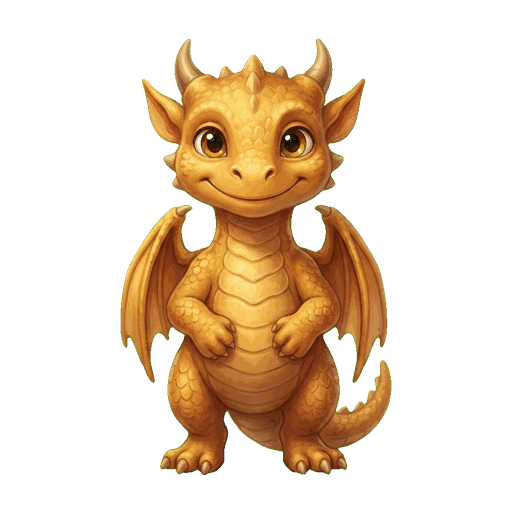
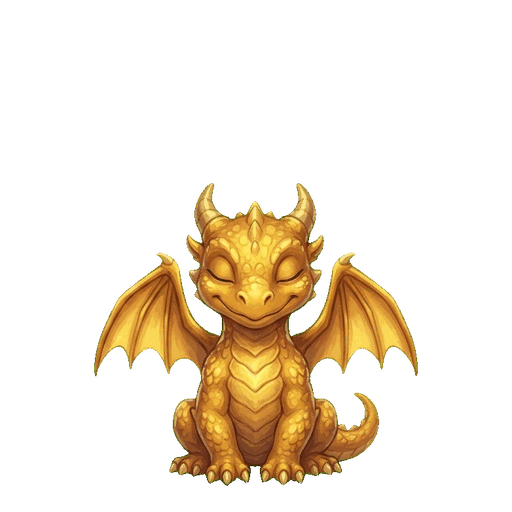
Add files via upload

diff --git a/island-overworld.html b/island-overworld.html
@@ -34,7 +34,7 @@
 <body>
 <div id="game"></div>
 <div class="hud" id="hud">Hearth Island</div>
-<div style="position:fixed;top:max(12px,env(safe-area-inset-top));right:max(12px,env(safe-area-inset-right));z-index:20;background:#e8853d;color:#1a1410;font-weight:800;font-size:13px;padding:4px 10px;border-radius:8px;box-shadow:0 2px 6px rgba(0,0,0,0.5);">BUILD v6 ✓</div>
+<div style="position:fixed;top:max(12px,env(safe-area-inset-top));right:max(12px,env(safe-area-inset-right));z-index:20;background:#e8853d;color:#1a1410;font-weight:800;font-size:13px;padding:4px 10px;border-radius:8px;box-shadow:0 2px 6px rgba(0,0,0,0.5);">v8 🐉</div>
 <div class="pad">
   <button class="up" data-dir="up" aria-label="Up">▲</button>
   <button class="down" data-dir="down" aria-label="Down">▼</button>
@@ -65,9 +65,11 @@ const CONFIG = {
   GUARDIAN_MOVE_MS: 220,
   FOLLOW_LERP: 0.12,   // camera smoothing
   COLORS: {
-    grassA: 0x3f7d4a, grassB: 0x478a52, path: 0xb79a6a, pathEdge: 0x9c7f54,
-    water: 0x3a6ea5, building: 0x6b4a2e, buildingRoof: 0x8a3b2e, buildingDoor: 0x2a1c12,
-    shrine: 0xe8853d,
+    grassA: 0x4a8c52, grassB: 0x428049, grassC: 0x55995d, grassDark: 0x3a7044,
+    path: 0xc2a86e, pathB: 0xb79a60, pathEdge: 0x9c7f54, pathSpeck: 0xa88f5a,
+    water: 0x3a6ea5, waterB: 0x4279b0, waterHi: 0x5b97cf,
+    building: 0x6b4a2e, buildingRoof: 0x8a3b2e, buildingDoor: 0x2a1c12,
+    shrine: 0xe8853d, shadow: 0x000000,
   },
 };
 
@@ -111,70 +113,169 @@ function isWalkable(c, r) {
 class IslandScene extends Phaser.Scene {
   constructor() { super('island'); }
 
+  preload() {
+    // load the real dragon sprite; if it 404s we fall back to the emoji token (world never breaks)
+    this.dragonLoaded = false;
+    this.load.image('dragon', './guardian-dragon-cheer2.png');
+    this.load.on('filecomplete-image-dragon', function () { this.dragonLoaded = true; }, this);
+    this.load.on('loaderror', function () { this.dragonLoaded = false; }, this);
+  }
+
   create() {
     const T = CONFIG.TILE;
     this.cameras.main.setBackgroundColor('#1a1410');
     this.cameras.main.setBounds(0, 0, CONFIG.COLS * T, CONFIG.ROWS * T);
 
-    // --- draw the tile map (grass + a cross path) ---
+    // --- draw the tile map: layered grass + dirt path (VISUAL ONLY, grid unchanged) ---
+    const C = CONFIG.COLORS;
     const g = this.add.graphics();
+    // deterministic per-tile noise so it never flickers between frames
+    function tileRand(c, r) { let n = (c * 73856093) ^ (r * 19349663); n = (n << 13) ^ n; return ((n * (n * n * 15731 + 789221) + 1376312589) & 0x7fffffff) / 0x7fffffff; }
     for (let c = 0; c < CONFIG.COLS; c++) {
       for (let r = 0; r < CONFIG.ROWS; r++) {
         const onPath = (c === 7 || c === 8 || r === 7 || r === 8);
-        let col = ((c + r) % 2 === 0) ? CONFIG.COLORS.grassA : CONFIG.COLORS.grassB;
-        if (onPath) col = CONFIG.COLORS.path;
-        g.fillStyle(col, 1);
-        g.fillRect(c * T, r * T, T, T);
-        // subtle tile grid line
-        g.lineStyle(1, 0x000000, 0.06);
-        g.strokeRect(c * T, r * T, T, T);
+        const x = c * T, y = r * T, rnd = tileRand(c, r);
+        if (onPath) {
+          // dirt path with subtle tone variation + speckles
+          g.fillStyle(rnd > 0.5 ? C.path : C.pathB, 1);
+          g.fillRect(x, y, T, T);
+          g.fillStyle(C.pathSpeck, 0.5);
+          for (let s = 0; s < 3; s++) {
+            const sx = x + 4 + tileRand(c + s * 7, r) * (T - 8);
+            const sy = y + 4 + tileRand(c, r + s * 7) * (T - 8);
+            g.fillRect(sx, sy, 3, 3);
+          }
+        } else {
+          // grass: pick one of several greens by noise, then add lighter blades
+          let base = C.grassA;
+          if (rnd < 0.25) base = C.grassB; else if (rnd < 0.5) base = C.grassC; else if (rnd < 0.62) base = C.grassDark;
+          g.fillStyle(base, 1);
+          g.fillRect(x, y, T, T);
+          // a few lighter grass blades for texture
+          g.fillStyle(C.grassC, 0.4);
+          for (let b = 0; b < 4; b++) {
+            const bx = x + 5 + tileRand(c + b * 3, r * 2) * (T - 10);
+            const by = y + 6 + tileRand(c * 2, r + b * 3) * (T - 12);
+            g.fillRect(bx, by, 2, 5);
+          }
+        }
+        // very subtle tile separation
+        g.lineStyle(1, 0x000000, 0.05);
+        g.strokeRect(x, y, T, T);
       }
     }
 
-    // --- draw buildings as solid tiles with a roof + door ---
+    // --- buildings: real structures with shadow, walls, and a ROOF layer above the player ---
+    // (collision logic untouched; this is purely how they're drawn + depth-sorted)
     this.buildingLabels = [];
+    // depth layers: ground=0, shadows=1, walls=2, entities=10, roofs=20 (above player), labels=22
+    const wallG = this.add.graphics().setDepth(2);
+    const shadowG = this.add.graphics().setDepth(1);
+    const roofG = this.add.graphics().setDepth(20); // ABOVE entities → player walks "behind" roofs
     BUILDINGS.forEach(function (b) {
       const x = b.col * T, y = b.row * T, w = b.w * T, h = b.h * T;
-      g.fillStyle(b.color, 1);
-      g.fillRect(x + 3, y + 3, w - 6, h - 6);
-      g.fillStyle(0x000000, 0.25);
-      g.fillRect(x + 3, y + 3, w - 6, h * 0.34);
-      g.fillStyle(CONFIG.COLORS.buildingDoor, 1);
-      g.fillRect(x + w * 0.4, y + h * 0.55, w * 0.2, h * 0.42);
-      g.lineStyle(2, 0x000000, 0.35);
-      g.strokeRect(x + 3, y + 3, w - 6, h - 6);
-      const lbl = this.add.text(x + w / 2, y - 6, b.label, {
+      // soft drop shadow on the ground
+      shadowG.fillStyle(C.shadow, 0.28);
+      shadowG.fillEllipse(x + w / 2, y + h - 4, w * 0.92, h * 0.42);
+      // wall body (lower 60%)
+      const wallTop = y + h * 0.4;
+      const wallShade = Phaser.Display.Color.IntegerToColor(b.color).darken(18).color;
+      wallG.fillStyle(wallShade, 1);
+      wallG.fillRect(x + 4, wallTop, w - 8, h - (wallTop - y) - 4);
+      // wall highlight stripe
+      wallG.fillStyle(Phaser.Display.Color.IntegerToColor(b.color).lighten(8).color, 1);
+      wallG.fillRect(x + 4, wallTop, w - 8, 4);
+      // door
+      wallG.fillStyle(C.buildingDoor, 1);
+      wallG.fillRect(x + w * 0.42, y + h - h * 0.32, w * 0.16, h * 0.28);
+      wallG.fillStyle(0xE8C56A, 0.9); // doorknob
+      wallG.fillCircle(x + w * 0.52, y + h - h * 0.18, 1.6);
+      // windows
+      wallG.fillStyle(0xFFE0A0, 0.85);
+      wallG.fillRect(x + w * 0.18, wallTop + 8, w * 0.14, h * 0.14);
+      wallG.fillRect(x + w * 0.68, wallTop + 8, w * 0.14, h * 0.14);
+      // wall outline
+      wallG.lineStyle(2, 0x000000, 0.3);
+      wallG.strokeRect(x + 4, wallTop, w - 8, h - (wallTop - y) - 4);
+
+      // ROOF (upper 50%, peaked) — drawn ABOVE the player so they pass behind it
+      const roofColor = Phaser.Display.Color.IntegerToColor(b.color).lighten(6).color;
+      roofG.fillStyle(roofColor, 1);
+      roofG.beginPath();
+      roofG.moveTo(x + 2, wallTop + 4);
+      roofG.lineTo(x + w / 2, y - h * 0.12);
+      roofG.lineTo(x + w - 2, wallTop + 4);
+      roofG.closePath();
+      roofG.fillPath();
+      // roof shade underside
+      roofG.fillStyle(0x000000, 0.18);
+      roofG.fillRect(x + 2, wallTop, w - 4, 5);
+      // roof ridge highlight
+      roofG.lineStyle(2, Phaser.Display.Color.IntegerToColor(b.color).lighten(22).color, 0.8);
+      roofG.beginPath();
+      roofG.moveTo(x + w / 2, y - h * 0.12);
+      roofG.lineTo(x + w / 2, wallTop + 4);
+      roofG.strokePath();
+
+      const lbl = this.add.text(x + w / 2, y - h * 0.16, b.label, {
         fontFamily: 'system-ui', fontSize: '12px', color: '#EDE3D2',
         stroke: '#000000', strokeThickness: 4,
-      }).setOrigin(0.5, 1).setDepth(5);
+      }).setOrigin(0.5, 1).setDepth(22);
       this.buildingLabels.push(lbl);
     }, this);
 
-    // --- the Hearth shrine at center (glowing, walkable-adjacent landmark) ---
+    // --- the Hearth: the glowing soul of the island ---
     const hx = 7.5 * T, hy = 7.5 * T;
-    this.shrine = this.add.circle(hx, hy, 10, CONFIG.COLORS.shrine).setDepth(4);
-    this.tweens.add({ targets: this.shrine, scale: 1.5, alpha: 0.7, duration: 900,
-      yoyo: true, repeat: -1, ease: 'Sine.easeInOut' });
+    this.add.circle(hx, hy + 6, 16, 0x000000, 0.25).setDepth(1); // shadow
+    this.add.circle(hx, hy, 13, 0x4a3526).setStrokeStyle(2, 0x2a1c12).setDepth(4); // stone ring
+    this.shrineGlow = this.add.circle(hx, hy, 22, 0xe8853d, 0.35).setDepth(4);
+    this.shrine = this.add.circle(hx, hy, 7, 0xFFD98A).setDepth(5);
+    this.tweens.add({ targets: this.shrineGlow, scale: 1.4, alpha: 0.18, duration: 1100, yoyo: true, repeat: -1, ease: 'Sine.easeInOut' });
+    this.tweens.add({ targets: this.shrine, scale: 1.25, duration: 700, yoyo: true, repeat: -1, ease: 'Sine.easeInOut' });
 
     // --- PLAYER (grid is truth) ---
     this.player = {
       gridX: 7, gridY: 10, state: 'IDLE', facing: 'up',
     };
     const px = this.tileToPx(this.player.gridX), py = this.tileToPx(this.player.gridY);
+    // soft shadow that lives just under the player (its own depth, follows in sync)
+    this.playerShadow = this.add.ellipse(px, py + T * 0.28, T * 0.5, T * 0.22, 0x000000, 0.3).setDepth(9);
+    // character body: a rounded token with a subtle gradient ring + the avatar
     this.playerSprite = this.add.container(px, py, [
-      this.add.circle(0, 0, T * 0.30, 0x2a5fd0).setStrokeStyle(3, 0xffffff),
-      this.add.text(0, 0, '🧒', { fontSize: '20px' }).setOrigin(0.5),
+      this.add.circle(0, 2, T * 0.31, 0x1e4a9e),                       // outer ring (darker)
+      this.add.circle(0, 0, T * 0.27, 0x3a72d8).setStrokeStyle(2.5, 0xffffff), // body
+      this.add.text(0, -1, '🧒', { fontSize: '22px' }).setOrigin(0.5),
     ]).setDepth(10);
-    // facing indicator (a small notch)
-    this.facer = this.add.triangle(px, py, 0, -6, -5, 4, 5, 4, 0xffffff).setDepth(11);
+    // directional notch shows which way the player faces
+    this.facer = this.add.triangle(px, py, 0, -7, -6, 5, 6, 5, 0xffffff, 0.95).setDepth(11);
+    // gentle idle breathing (visual only — never moves the grid position)
+    this.tweens.add({ targets: this.playerSprite, scaleX: 1.05, scaleY: 0.95, duration: 1300,
+      yoyo: true, repeat: -1, ease: 'Sine.easeInOut' });
 
     // --- GUARDIAN (also grid-based, wanders on a timer) ---
     this.guardian = { gridX: 7, gridY: 11, state: 'IDLE' };
     const gx = this.tileToPx(this.guardian.gridX), gy = this.tileToPx(this.guardian.gridY);
-    this.guardianSprite = this.add.container(gx, gy, [
-      this.add.circle(0, 0, T * 0.28, 0xe8853d).setStrokeStyle(3, 0xffd98a),
-      this.add.text(0, 0, '🐲', { fontSize: '18px' }).setOrigin(0.5),
-    ]).setDepth(9);
+    this.guardianShadow = this.add.ellipse(gx, gy + T * 0.26, T * 0.46, T * 0.2, 0x000000, 0.28).setDepth(8);
+    this.guardianGlow = this.add.circle(gx, gy, T * 0.34, 0xe8853d, 0.3).setDepth(8);
+    // dragon token: real sprite if it loaded, otherwise the styled emoji fallback
+    let dragonVisual;
+    if (this.dragonLoaded && this.textures.exists('dragon')) {
+      dragonVisual = this.add.image(0, -2, 'dragon');
+      const ds = (T * 1.5) / Math.max(dragonVisual.width, dragonVisual.height); // fit to ~1.5 tiles
+      dragonVisual.setScale(ds);
+    } else {
+      dragonVisual = this.add.text(0, -1, '🐲', { fontSize: '20px' }).setOrigin(0.5);
+    }
+    this.guardianSprite = this.add.container(gx, gy, [dragonVisual]).setDepth(9);
+    this.dragonVisual = dragonVisual;
+    // idle LIFE (visual only — never affects the grid target the wander AI sets):
+    // gentle breathing pulse on the dragon itself + a soft vertical float + glow pulse.
+    this.tweens.add({ targets: this.dragonVisual, scaleX: this.dragonVisual.scaleX * 1.04,
+      scaleY: this.dragonVisual.scaleY * 1.04, duration: 1500, yoyo: true, repeat: -1, ease: 'Sine.easeInOut' });
+    this.tweens.add({ targets: this.dragonVisual, y: this.dragonVisual.y - 2.5, duration: 1900,
+      yoyo: true, repeat: -1, ease: 'Sine.easeInOut' });
+    this.tweens.add({ targets: this.guardianGlow, alpha: 0.12, scale: 1.2, duration: 1400,
+      yoyo: true, repeat: -1, ease: 'Sine.easeInOut' });
 
     // --- camera follows player, smooth + grid stable ---
     this.cameras.main.startFollow(this.playerSprite, true, CONFIG.FOLLOW_LERP, CONFIG.FOLLOW_LERP);
@@ -202,7 +303,7 @@ class IslandScene extends Phaser.Scene {
     });
 
     this.hud = document.getElementById('hud');
-    if (this.hud) this.hud.textContent = 'start ' + this.player.gridX + ',' + this.player.gridY + ' walkable=' + isWalkable(this.player.gridX, this.player.gridY);
+    if (this.hud) this.hud.textContent = 'Hearth Island';
   }
 
   computeZoom() {
@@ -231,7 +332,7 @@ class IslandScene extends Phaser.Scene {
     }
     this.player.state = 'MOVING';
     this.player.gridX = tc; this.player.gridY = tr;     // grid updates AFTER validation
-    if (this.hud) this.hud.textContent = 'tile ' + tc + ',' + tr + ' walkable=' + isWalkable(tc, tr) + ' onBld=' + (WORLD.blocked[key(tc,tr)] ? WORLD.blocked[key(tc,tr)].label : 'no');
+    if (this.hud) this.hud.textContent = 'Hearth Island';
     const nx = this.tileToPx(tc), ny = this.tileToPx(tr);
     const self = this;
     this.tweens.add({
@@ -318,6 +419,11 @@ class IslandScene extends Phaser.Scene {
   }
 
   update() {
+    // visual sync: keep shadows + glows under their entities (does NOT touch grid/movement)
+    if (this.playerShadow) { this.playerShadow.x = this.playerSprite.x; this.playerShadow.y = this.playerSprite.y + CONFIG.TILE * 0.28; }
+    if (this.guardianShadow) { this.guardianShadow.x = this.guardianSprite.x; this.guardianShadow.y = this.guardianSprite.y + CONFIG.TILE * 0.26; }
+    if (this.guardianGlow) { this.guardianGlow.x = this.guardianSprite.x; this.guardianGlow.y = this.guardianSprite.y; }
+
     // SAFETY: the player must NEVER occupy a blocked tile. If they do, snap to a safe tile.
     if (!isWalkable(this.player.gridX, this.player.gridY)) {
       console.warn('[BUG] player on blocked tile', this.player.gridX, this.player.gridY,